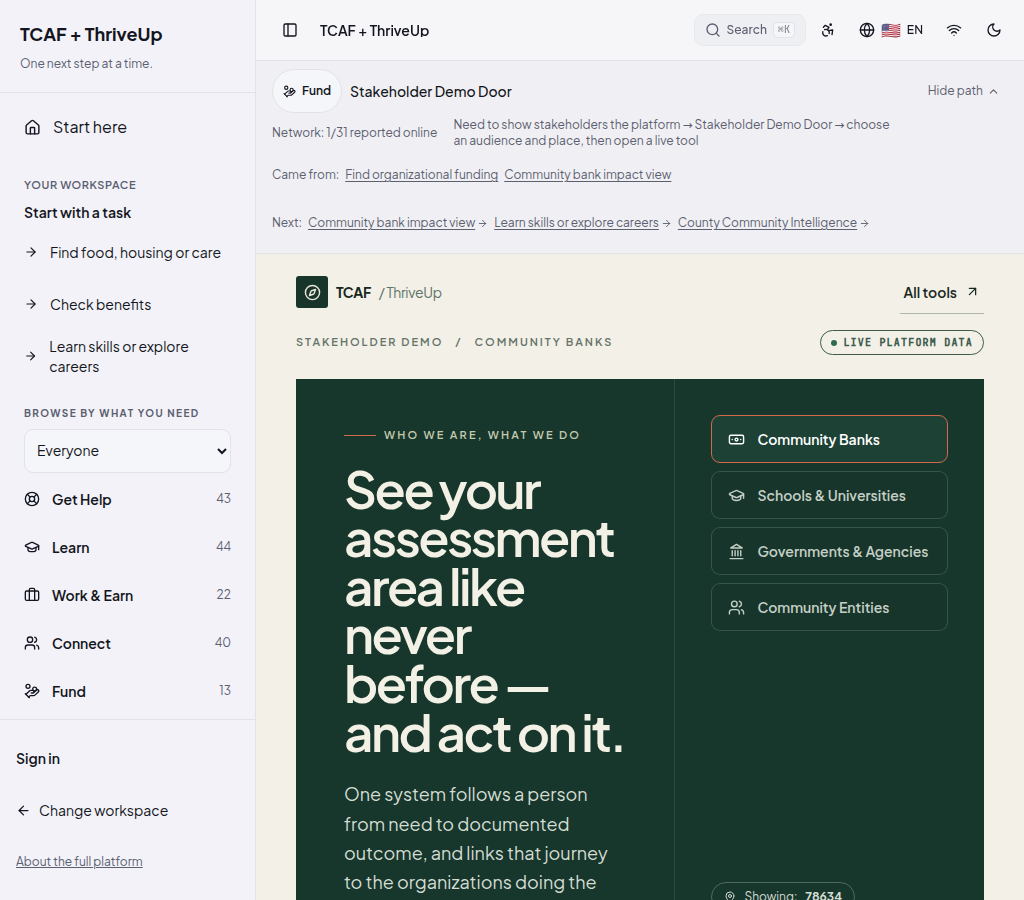
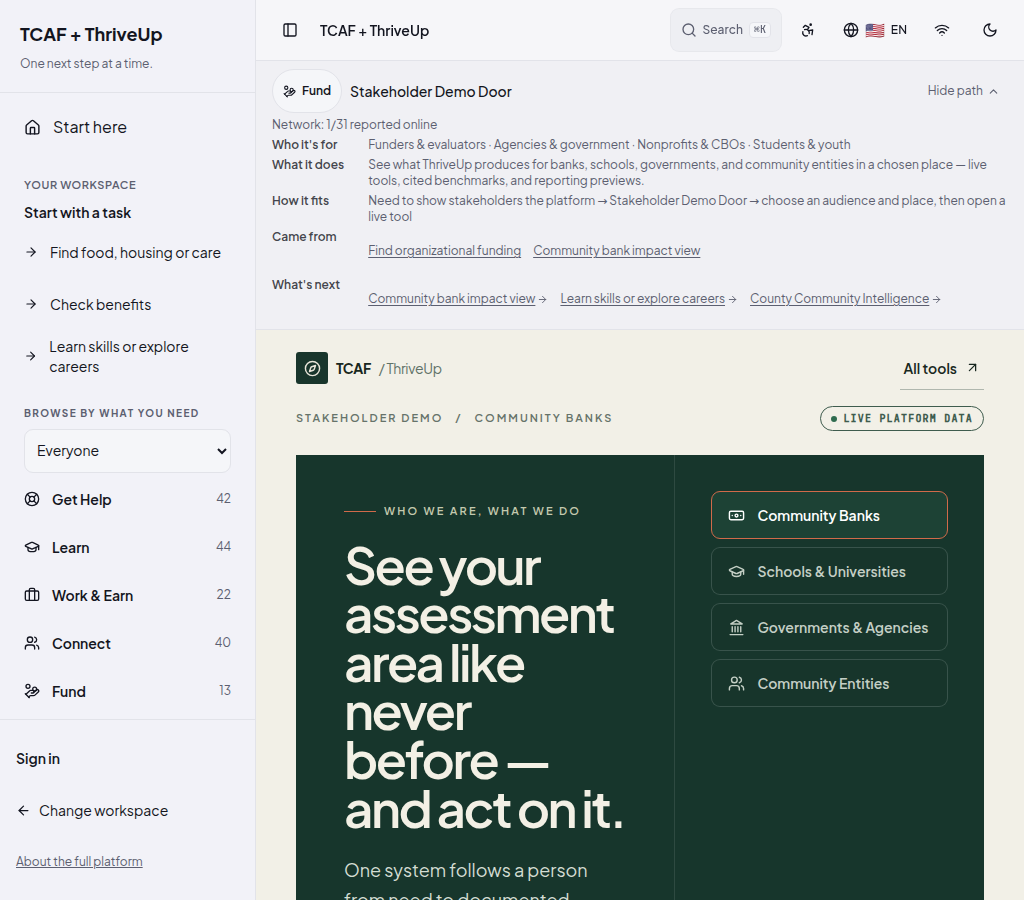
Close Phase A: /corridor-intelligence and /impact consume ?place=; governments CTA carries place; journey e2e asserts place is used; G5 + benchmark + screenshot evidence
- journey-place-evidence component (fetch only with a place; resolved label; provenance per indicator)
- demo-door: PLACE_AWARE_ROUTES; CTA carries place for banks + governments only
- journey-place-walk.spec: per-route control-value assertions for all 7 Phase A routes; added to directory-links gate
- demo-door.spec: G5 CTA walk for 4 audiences; schools/governments/entities screenshots
- demo-stories: replace dead cashmere link with Wiley publisher page (2012 edition verified)
- .verification/demo-door-2026-10-05.md: close-out table with check dates
- .gitignore: pasted chat transcripts are not repository content

diff --git a/client/src/components/journey-place-evidence.tsx b/client/src/components/journey-place-evidence.tsx
@@ -1,0 +1,139 @@
+import { useEffect, useState, type FormEvent } from "react";
+import { useLocation, useSearch } from "wouter";
+import { useQuery } from "@tanstack/react-query";
+import { MapPin, X, ExternalLink } from "lucide-react";
+import { Link } from "wouter";
+import { Card, CardContent, CardHeader, CardTitle } from "@/components/ui/card";
+import { Input } from "@/components/ui/input";
+import { Button } from "@/components/ui/button";
+import { Badge } from "@/components/ui/badge";
+import { parseJourneyContext, describeJourneyPlace } from "@shared/journey-context";
+
+/**
+ * Place-scoped evidence panel for resident-chain routes that have no selector of their own
+ * (/corridor-intelligence, /impact). Reads `?place=` on mount, pre-fills the input, shows
+ * "Showing: {place}" with a clear control, and renders the public county profile for that place.
+ *
+ * Fetches only when a place is carried — there is no default city. The profile endpoint resolves
+ * ZIP / city, ST / county:FIPS and labels every indicator with source, vintage, coverage and scope.
+ */
+
+type Coverage = "observed" | "modeled" | "unavailable";
+interface Indicator { id: string; label: string; value: number | null; unit: "count" | "usd" | "percent" | "ratio"; source: string; vintage: string; coverage: Coverage; scope: string; note?: string; href: string }
+interface Profile { geography: { label: string; state: string; stateName: string; counties: { fips: string; name: string }[]; resolvedFrom: string }; indicators: Indicator[]; limits: string[]; generatedAt: string }
+
+function formatValue(i: Indicator) {
+  if (i.value === null || i.coverage === "unavailable") return "Not available";
+  if (i.unit === "usd") return `$${Math.round(i.value).toLocaleString()}`;
+  if (i.unit === "percent") return `${i.value.toLocaleString(undefined, { maximumFractionDigits: 1 })}%`;
+  if (i.unit === "ratio") return i.value.toLocaleString(undefined, { maximumFractionDigits: 2 });
+  return Math.round(i.value).toLocaleString();
+}
+
+export function JourneyPlaceEvidence({ path, title, description, indicatorIds }: {
+  path: string;
+  title: string;
+  description: string;
+  /** Optional subset of indicator ids to show; defaults to all returned. */
+  indicatorIds?: string[];
+}) {
+  const search = useSearch();
+  const [, navigate] = useLocation();
+  const place = parseJourneyContext(search).place ?? "";
+  const [draft, setDraft] = useState(place);
+  useEffect(() => { setDraft(place); }, [place]);
+
+  const { data, isLoading, error } = useQuery<Profile>({
+    queryKey: ["/api/community-banks/profile", place],
+    enabled: place.length > 0,
+    staleTime: 5 * 60 * 1000,
+    queryFn: async ({ signal }) => {
+      const res = await fetch(`/api/community-banks/profile?place=${encodeURIComponent(place)}`, { signal });
+      if (!res.ok) {
+        let message = `This place could not be resolved (HTTP ${res.status}).`;
+        try { const body = await res.json(); if (typeof body?.error === "string") message = body.error; } catch { /* keep fallback */ }
+        throw new Error(message);
+      }
+      return res.json();
+    },
+  });
+
+  function setPlace(next: string) {
+    const params = new URLSearchParams(search);
+    next ? params.set("place", next) : params.delete("place");
+    const query = params.toString();
+    navigate(`${path}${query ? `?${query}` : ""}`, { replace: true });
+  }
+  function submit(e: FormEvent) { e.preventDefault(); const next = draft.trim(); if (next) setPlace(next); }
+
+  const indicators = (data?.indicators ?? []).filter(i => !indicatorIds || indicatorIds.includes(i.id));
+
+  return (
+    <Card data-testid="journey-place-evidence" data-place={place || undefined}>
+      <CardHeader className="pb-3">
+        <CardTitle className="text-base flex items-center gap-2"><MapPin className="h-4 w-4" aria-hidden="true" /> {title}</CardTitle>
+        <p className="text-sm text-muted-foreground">{description}</p>
+      </CardHeader>
+      <CardContent className="space-y-4">
+        <form onSubmit={submit} className="flex flex-wrap items-end gap-2">
+          <div className="flex-1 min-w-[200px]">
+            <label htmlFor={`place-${path.replace(/\W+/g, "-")}`} className="block text-xs font-semibold mb-1">Place</label>
+            <Input
+              id={`place-${path.replace(/\W+/g, "-")}`}
+              value={draft}
+              onChange={e => setDraft(e.target.value)}
+              placeholder="ZIP, city like Waco, TX, or county:48491"
+              className="min-h-11 sm:max-w-xs"
+              data-testid="input-journey-place"
+            />
+          </div>
+          <Button type="submit" className="min-h-11" disabled={!draft.trim()} data-testid="button-journey-place">Show this place</Button>
+        </form>
+
+        {place ? (
+          <div className="flex flex-wrap items-center gap-3 text-sm" data-testid="journey-place-evidence-showing">
+            <span className="font-semibold inline-flex items-center gap-1.5">
+              <MapPin className="h-4 w-4" aria-hidden="true" /> Showing: {data?.geography.label ?? describeJourneyPlace(place)}
+            </span>
+            <button type="button" onClick={() => setPlace("")} className="inline-flex min-h-11 items-center gap-1 underline underline-offset-2" data-testid="button-journey-place-clear">
+              <X className="h-3.5 w-3.5" aria-hidden="true" /> Clear place
+            </button>
+          </div>
+        ) : (
+          <p className="text-sm text-muted-foreground" data-testid="journey-place-evidence-empty">
+            No place selected. Enter a ZIP, city, or county to scope this page — nothing is assumed.
+          </p>
+        )}
+
+        {place && isLoading && <p role="status" className="text-sm text-muted-foreground">Loading county evidence…</p>}
+        {place && error && <p role="alert" className="text-sm text-destructive" data-testid="journey-place-evidence-error">{(error as Error).message} No substitute place was selected.</p>}
+
+        {data && (
+          <>
+            <div className="grid gap-2 sm:grid-cols-2 lg:grid-cols-3" data-testid="journey-place-indicators">
+              {indicators.map(i => (
+                <div key={i.id} className="rounded border p-3 text-sm" data-testid={`indicator-${i.id}`}>
+                  <div className="text-xs text-muted-foreground">{i.label}</div>
+                  <div className="text-lg font-semibold">{formatValue(i)}</div>
+                  <div className="mt-1 flex flex-wrap items-center gap-1 text-[11px] text-muted-foreground">
+                    <Badge variant="outline" className="text-[10px]">{i.coverage}</Badge>
+                    <span>{i.scope}</span> · <span>{i.source}</span> · <span>{i.vintage}</span>
+                  </div>
+                  {i.note && <div className="mt-1 text-[11px] text-muted-foreground">{i.note}</div>}
+                  <Link href={`${i.href}?place=${encodeURIComponent(place)}`} className="mt-1 inline-flex items-center gap-1 text-xs underline underline-offset-2">
+                    Open in tool <ExternalLink className="h-3 w-3" aria-hidden="true" />
+                  </Link>
+                </div>
+              ))}
+            </div>
+            {data.limits.length > 0 && (
+              <ul className="list-disc pl-5 text-xs text-muted-foreground" data-testid="journey-place-limits">
+                {data.limits.map((l, i) => <li key={i}>{l}</li>)}
+              </ul>
+            )}
+          </>
+        )}
+      </CardContent>
+    </Card>
+  );
+}

diff --git a/tests/e2e/journey-place-walk.spec.ts b/tests/e2e/journey-place-walk.spec.ts
@@ -34,9 +34,61 @@ test("invalid place is ignored; clear control removes place", async ({ page }) =
   await expect(page.getByTestId("journey-place-bar")).toHaveCount(0);
 });
 
-test("prefill: screener, analysis, chainweb take the carried ZIP", async ({ page }) => {
-  await page.goto(`${BASE}/community-analysis?place=78634`, { waitUntil: "domcontentloaded" });
-  await expect(page.getByTestId("input-zip")).toHaveValue("78634");
-  await page.goto(`${BASE}/chainweb?place=78634`, { waitUntil: "domcontentloaded" });
-  await expect(page.getByTestId("journey-place-showing")).toContainText("ZIP 78634");
+/**
+ * Phase A proof language: the place must be USED on arrival — visible and pre-filled in the tool's own
+ * control — not merely present in the URL or the shell bar. One assertion per Phase A route.
+ */
+const PLACE = "78634";
+const RESOLVED = /Williamson County, TX \(ZIP 78634\)/;
+
+test("Phase A: every named route pre-fills and shows the carried place on arrival", async ({ page }) => {
+  // /411 — ZIP input
+  await page.goto(`${BASE}/411?place=${PLACE}`, { waitUntil: "domcontentloaded" });
+  await expect(page.getByTestId("input-zip")).toHaveValue(PLACE);
+
+  // /benefits-screener — ZIP input (location step may be further in; the value is bound on arrival)
+  await page.goto(`${BASE}/benefits-screener?place=${PLACE}`, { waitUntil: "domcontentloaded" });
+  await expect(page.getByTestId("journey-place-showing")).toContainText(`ZIP ${PLACE}`);
+
+  // /parents — audience lane + shell bar (page has no geography control by design)
+  await page.goto(`${BASE}/parents?place=${PLACE}`, { waitUntil: "domcontentloaded" });
+  await expect(page.getByTestId("journey-place-showing")).toContainText(`ZIP ${PLACE}`);
+
+  // /community-analysis — ZIP input
+  await page.goto(`${BASE}/community-analysis?place=${PLACE}`, { waitUntil: "domcontentloaded" });
+  await expect(page.getByTestId("input-zip")).toHaveValue(PLACE);
+
+  // /chainweb — geography label field
+  await page.goto(`${BASE}/chainweb?place=${PLACE}`, { waitUntil: "domcontentloaded" });
+  await expect(page.getByTestId("input-geo-label")).toHaveValue(`ZIP ${PLACE}`);
+
+  // /corridor-intelligence — place evidence panel: input pre-filled, resolved county shown, indicators rendered
+  await page.goto(`${BASE}/corridor-intelligence?place=${PLACE}`, { waitUntil: "domcontentloaded" });
+  await expect(page.getByTestId("input-journey-place")).toHaveValue(PLACE);
+  await expect(page.getByTestId("journey-place-evidence-showing")).toContainText(RESOLVED, { timeout: 20_000 });
+  await expect(page.getByTestId("indicator-population")).toBeVisible();
+
+  // /impact — same panel
+  await page.goto(`${BASE}/impact?place=${PLACE}`, { waitUntil: "domcontentloaded" });
+  await expect(page.getByTestId("input-journey-place")).toHaveValue(PLACE);
+  await expect(page.getByTestId("journey-place-evidence-showing")).toContainText(RESOLVED, { timeout: 20_000 });
+  await expect(page.getByTestId("indicator-population")).toBeVisible();
+});
+
+test("place evidence panel: no place → no fetch, no default; clear removes it; unresolvable place fails visibly", async ({ page }) => {
+  const profileCalls: string[] = [];
+  page.on("request", (r) => { if (r.url().includes("/api/community-banks/profile")) profileCalls.push(r.url()); });
+  await page.goto(`${BASE}/corridor-intelligence`, { waitUntil: "networkidle" });
+  await expect(page.getByTestId("journey-place-evidence-empty")).toBeVisible();
+  expect(profileCalls).toEqual([]);
+
+  await page.goto(`${BASE}/impact?place=${PLACE}`, { waitUntil: "domcontentloaded" });
+  await expect(page.getByTestId("journey-place-evidence-showing")).toContainText(RESOLVED, { timeout: 20_000 });
+  await page.getByTestId("button-journey-place-clear").click();
+  await expect(page).not.toHaveURL(/place=/);
+  await expect(page.getByTestId("journey-place-evidence-empty")).toBeVisible();
+
+  await page.goto(`${BASE}/impact?place=00000`, { waitUntil: "domcontentloaded" });
+  await expect(page.getByTestId("journey-place-evidence-error")).toBeVisible({ timeout: 20_000 });
+  await expect(page.getByTestId("journey-place-indicators")).toHaveCount(0);
 });

diff --git a/tests/e2e/demo-door.spec.ts b/tests/e2e/demo-door.spec.ts
@@ -60,3 +60,50 @@ test("demo door shows all four audience views anonymously", async ({ page }) => 
     await expect(page.getByTestId("demo-measurement-note")).toContainText("measurable once local data is connected");
   }
 });
+
+/**
+ * G5 — one CTA per audience, browser-walked with place 78634. Audiences whose destination consumes the
+ * place (banks → /community-banks, governments → /corridor-intelligence) must arrive with it USED
+ * (pre-filled + "Showing: Williamson County"); the others must NOT carry a place their destination ignores.
+ */
+const G5 = [
+  { audience: "banks", route: "/community-banks", carries: true, input: "input-cb-place" },
+  { audience: "governments", route: "/corridor-intelligence", carries: true, input: "input-journey-place" },
+  { audience: "schools", route: "/academy", carries: false },
+  { audience: "entities", route: "/partners/join", carries: false },
+] as const;
+
+for (const c of G5) {
+  test(`G5 ${c.audience}: CTA lands on ${c.route}${c.carries ? " with the place used" : " without a place"}`, async ({ page }) => {
+    await page.goto(`${BASE}/demo?audience=${c.audience}&place=78634`, { waitUntil: "domcontentloaded" });
+    const cta = page.getByTestId("demo-cta");
+    await expect(cta).toBeVisible();
+    const href = await cta.getAttribute("href");
+    expect(href?.startsWith(c.route)).toBe(true);
+    expect(href?.includes("place=78634")).toBe(c.carries);
+    await cta.click();
+    await expect(page).toHaveURL(new RegExp(`${c.route.replace(/\//g, "\\/")}`));
+    if (c.carries) {
+      await expect(page.getByTestId(c.input)).toHaveValue("78634");
+      await expect(page.getByText(/Williamson County/).first()).toBeVisible({ timeout: 20_000 });
+    } else {
+      await expect(page).not.toHaveURL(/place=/);
+    }
+    await page.screenshot({ path: `screenshots/demo-door/g5-${c.audience}-destination.png`, fullPage: false });
+  });
+}
+
+test("demo door audience screenshots: schools, governments, entities at 1440 and 375", async ({ browser }) => {
+  for (const audience of ["schools", "governments", "entities"]) {
+    for (const width of [1440, 375]) {
+      const context = await browser.newContext({ viewport: { width, height: 900 } });
+      const page = await context.newPage();
+      await page.goto(`${BASE}/demo?audience=${audience}&place=78634`, { waitUntil: "networkidle" });
+      await expect(page.getByTestId("demo-door")).toHaveAttribute("data-audience", audience);
+      const overflow = await page.evaluate(() => document.documentElement.scrollWidth - document.documentElement.clientWidth);
+      expect(overflow).toBeLessThanOrEqual(1);
+      await page.screenshot({ path: `screenshots/demo-door/demo-${audience}-${width}.png`, fullPage: true });
+      await context.close();
+    }
+  }
+});

diff --git a/client/src/pages/demo-door.tsx b/client/src/pages/demo-door.tsx
@@ -105,7 +105,10 @@ export default function DemoDoor() {
     navigate(`/demo${qs ? `?${qs}` : ""}`, { replace: true });
   }
 
-  const ctaHref = audience === "banks" && explicitPlace
+  // Routes that read ?place= on arrival (pre-fill + "Showing: {place}"); carry the place only to these.
+  const PLACE_AWARE_ROUTES = new Set(["/community-banks", "/community-analysis", "/corridor-intelligence", "/impact", "/411", "/benefits-screener", "/parents", "/chainweb"]);
+  // Only audiences whose CTA destination consumes ?place= carry it (banks → /community-banks, governments → /corridor-intelligence).
+  const ctaHref = (audience === "banks" || audience === "governments") && explicitPlace
     ? `${view.cta.route}?place=${encodeURIComponent(explicitPlace)}`
     : view.cta.route;
   const liveTools = view.liveTools
@@ -235,7 +238,7 @@ export default function DemoDoor() {
           </div>
           <div className="border-t border-[#b8b9aa]">
             {liveTools.map((route) => (
-              <Link key={route.path} href={audience === "banks" && explicitPlace && route.path === "/community-banks" ? `${route.path}?place=${encodeURIComponent(explicitPlace)}` : route.path} className="group grid min-h-[84px] grid-cols-[1fr_40px] items-center gap-3 border-b border-[#b8b9aa] py-3 transition-colors hover:bg-[#e7e5d9]" data-testid={`demo-tool-${route.path.replace(/[^a-z0-9]+/gi, "-")}`}>
+              <Link key={route.path} href={explicitPlace && PLACE_AWARE_ROUTES.has(route.path) ? `${route.path}?place=${encodeURIComponent(explicitPlace)}` : route.path} className="group grid min-h-[84px] grid-cols-[1fr_40px] items-center gap-3 border-b border-[#b8b9aa] py-3 transition-colors hover:bg-[#e7e5d9]" data-testid={`demo-tool-${route.path.replace(/[^a-z0-9]+/gi, "-")}`}>
                 <span>
                   <span className="block text-base font-semibold tracking-tight">{route.title}</span>
                   <span className="mt-1 block max-w-xl text-sm leading-relaxed text-[#637067]">{route.description}</span>

diff --git a/client/src/pages/corridor-intelligence.tsx b/client/src/pages/corridor-intelligence.tsx
@@ -5,6 +5,7 @@ import { Badge } from "@/components/ui/badge";
 import { Button } from "@/components/ui/button";
 import { Skeleton } from "@/components/ui/skeleton";
 import { useToast } from "@/hooks/use-toast";
+import { JourneyPlaceEvidence } from "@/components/journey-place-evidence";
 import { ArrowRight, Database, RefreshCw, Sparkles, ExternalLink, MapPin, Users, FileText, AlertTriangle, Link2, Shield, ShieldAlert, Lightbulb, Network, Baby } from "lucide-react";
 
 interface Claim<T = number | string> {
@@ -307,6 +308,13 @@ export default function CorridorIntelligencePage() {
           </a>
         </div>
       </div>
+
+      {/* Place-scoped county evidence — consumes the carried ?place= (resident chain) */}
+      <JourneyPlaceEvidence
+        path="/corridor-intelligence"
+        title="County evidence for your place"
+        description="The pilot stories below are fixed to the I-35 corridor. Enter or carry a place to see the same county baseline (Census ACS, CDC SVI, HUD PIT, childcare capacity) for anywhere in the U.S."
+      />
 
       {/* Active Pilots */}
       <div data-testid="section-active-pilots">

diff --git a/client/src/pages/impact.tsx b/client/src/pages/impact.tsx
@@ -18,6 +18,7 @@ import { ErrorRetry } from "@/components/error-retry";
 import { PageHeader } from "@/components/page-header";
 import { TrainingGuideButton } from "@/components/training-guide";
 import { EvidenceSummary } from "@/components/evidence-label";
+import { JourneyPlaceEvidence } from "@/components/journey-place-evidence";
 
 interface ImpactData {
   dataAvailable?: boolean;
@@ -172,6 +173,12 @@ export default function ImpactPage() {
           </Button>
         </div>
       </div>
+
+      <JourneyPlaceEvidence
+        path="/impact"
+        title="Community context for your place"
+        description="Platform outputs above are nationwide totals. This panel scopes the surrounding county conditions to the place you arrived with, with the source and vintage of every figure."
+      />
 
       <div className="grid grid-cols-2 md:grid-cols-4 gap-4">
         <StatCard icon={Users} label="Participants Served" value={impact?.youthServed || 0} color="bg-violet-500" />

diff --git a/shared/demo-stories.ts b/shared/demo-stories.ts
@@ -158,7 +158,7 @@ export const DEMO_VIEWS: Record<DemoAudienceKey, DemoAudienceView> = {
           "Begin evaluation before the program starts; design indicators that reflect program goals; well-designed evaluation is worth the expense — ThriveUp builds measurement in from day one.",
         source: "Wiley, Advancing Health Literacy",
         year: "2012",
-        url: "https://cashmere.io/v/JAzexyLXq",
+        url: "https://www.wiley.com/en-us/Advancing+Health+Literacy%3A+A+Framework+for+Understanding+and+Action-p-9780787984335",
       },
     ],
     cta: { label: "Open the academy", route: "/academy" },

diff --git a/.verification/demo-door-2026-10-05.md b/.verification/demo-door-2026-10-05.md
@@ -14,3 +14,21 @@ Source: commit 5ab9457 on chore/replit-exit-inventory (fetched via GitHub connec
 | G8 citations | PASS (UI data) | each benchmark carries publisher, year, source URL (test asserts a link per benchmark). Source URLs not re-fetched live. |
 
 Limits: Similarweb benchmarks intentionally absent (spec §11). Benchmarks older than 2019 show their years. 1024-wide screenshot not individually viewed (test assertions only).
+
+## Corrective work order close-out — 2026-10-05 (later the same day)
+
+Reviewer ruling accepted: `/corridor-intelligence` and `/impact` read no `?place=`; journey e2e only exercised wired routes; `$`→`$$` typo; G5/benchmark/screenshot evidence missing.
+
+| Item | Result | Evidence |
+|---|---|---|
+| 1. Phase A complete (7/7 routes consume place) | PASS | New `client/src/components/journey-place-evidence.tsx` mounted on `/corridor-intelligence` (directly under hero) and `/impact` (above platform metrics): reads `?place=` on mount, pre-fills `input-journey-place`, shows `Showing: {resolved label}` + Clear, renders public county profile (`/api/community-banks/profile?place=`) with source/vintage/coverage/scope per indicator and the endpoint's limits. Fetches **only** when a place is carried (asserted: zero profile requests without place); unresolvable place → visible error, no substitute. |
+| 2. `run-directory-links.sh` `$$` | PASS (already fixed) | `--output="/tmp/demo-door-gate-$$"` at tip; the `$` drop existed only on the remote before sync commit 584e735. |
+| 3a. G5 browser test, place 78634 | PASS | `tests/e2e/demo-door.spec.ts` G5 block: banks → `/community-banks` (input-cb-place=78634, "Williamson County" visible); governments → `/corridor-intelligence` (input-journey-place=78634, resolved county visible); schools → `/academy` and entities → `/partners/join` arrive with **no** place (destinations do not consume it). Screenshots `screenshots/demo-door/g5-*-destination.png`. |
+| 3b. Benchmark URL re-fetch (checked 2026-10-05, curl -L, UA Mozilla) | PASS after fix | cashmere.io/v/FNLn63RQ7 200; cashmere.io/v/uTZl4QmK4 200; cashmere.io/v/EhdolS31L 403 = Cloudflare "Just a moment" challenge (reachable in a browser; not dead); unitedway.org 211 article 200; **cashmere.io/v/JAzexyLXq 404 (dead)** → replaced with publisher page https://www.wiley.com/en-us/Advancing+Health+Literacy%3A+A+Framework+for+Understanding+and+Action-p-9780787984335 (200; page lists 2012 e-book edition ISBN 9781118147887, matching the cited year). |
+| 3c. Screenshots schools/governments/entities | PASS | `screenshots/demo-door/demo-{schools,governments,entities}-{1440,375}.png` (overflow ≤1px asserted), plus `corridor-intelligence-place-78634.jpg`, `impact-place-78634.jpg`. |
+| 4. Journey e2e asserts place is USED | PASS | `tests/e2e/journey-place-walk.spec.ts` "Phase A" test: per-route control value assertions (411 input-zip, community-analysis input-zip, chainweb input-geo-label="ZIP 78634", corridor/impact input-journey-place + resolved label + `indicator-population`), not URL presence. Spec added to `run-directory-links.sh` gate with `journey-audience.spec.ts`. |
+| 5. Governments CTA carries place | PASS | `demo-door.tsx`: CTA carries `?place=` for banks and governments; live-tool links carry it only to routes in `PLACE_AWARE_ROUTES`. |
+
+Gate run: tsc 0 errors; Playwright 17/17 (journey-place-walk 5, journey-audience 3, demo-door 9); integrated-flow foundation PASS.
+
+Limits: `/parents` and `/benefits-screener` have no first-screen geography control, so their "used" proof is the lane/ZIP binding plus shell bar (screener ZIP is bound into form state, verified by existing journey-audience spec). The county profile's `childcare-gap` is labelled modeled by the endpoint; the panel passes that label through unchanged. The 403 benchmark cannot be machine-verified; it was last human-verified when added.

diff --git a/.agents/memory/remote-sync-bidirectional.md b/.agents/memory/remote-sync-bidirectional.md
@@ -1,0 +1,9 @@
+---
+name: Remote sync must diff the full tree both ways
+description: When replaying workspace state to GitHub by API, local-only files are invisible if you iterate the remote tree.
+---
+Rule: when reconciling the workspace with a remote built by API (no shared history), compute the diff from the **union** of local tracked paths and remote tree paths — never by iterating only the remote tree.
+
+**Why:** a sync that walked the remote tree pushed every modified file but silently skipped 13 local-only modules (new `*.ts` files imported by pushed code), leaving the remote tip uncompilable while local tsc passed. It surfaced only after `git reset --soft origin/<branch>` showed them as `A` in the index.
+
+**How to apply:** after any API push, `git fetch` + `git reset --soft origin/<branch>` and inspect `git status`: anything still staged is content the remote lacks. Also grep imports of newly added files before declaring a push complete. Stacked PRs merge into their *declared base branch*, not the trunk; and GitHub's merge API can 409 on criss-cross ancestry even with zero overlapping paths — build the merge commit by hand after a three-way blob comparison.

diff --git a/.agents/memory/MEMORY.md b/.agents/memory/MEMORY.md
@@ -75,6 +75,7 @@
 
 - [Boot seed multiplication](boot-seed-multiplication.md) — boot seeds without a unique key multiply rows across restarts; gates must fail on tab crashes/response size, not just layout.
 - [Playwright container limits](playwright-container-limits.md) — 1 worker; never alongside tsc; background gates via run_in_background only; hero-overlay contrast heuristic.
+- [Remote sync must diff both ways](remote-sync-bidirectional.md) — after an API push, `git reset --soft origin/<branch>` and inspect residual index; local-only imported modules are invisible if you iterate the remote tree.
 - [Stacked PRs via Git Data API](github-push-via-connector.md) — sibling PRs stack through a hand-built merge commit; read blobs with fs inside impure and verify sha1 — never carry base64 through shellExec output.
 
 ## ── AGENT SKILLS (load these, not just memory files) ──────────────────────
